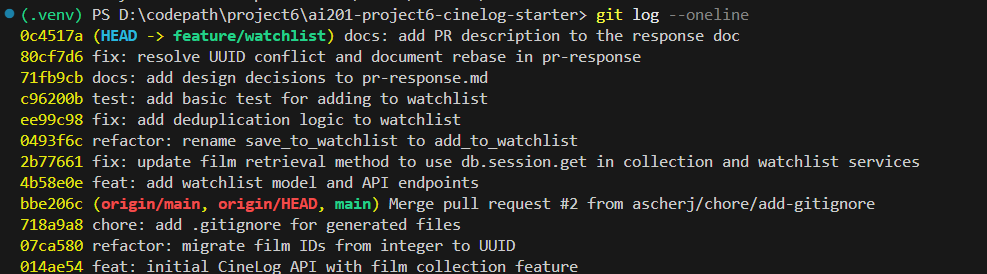
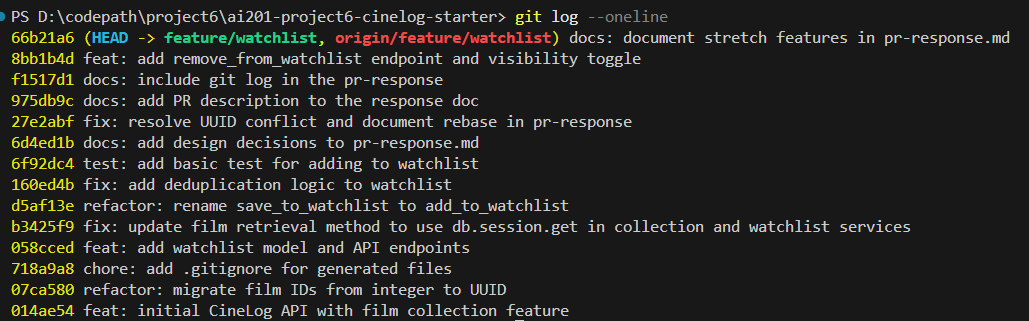
docs: git log screenshot in pr-response.md

Changed region(s): [[0.0, 0.0292, 1.0, 1.0]]

diff --git a/pr-response.md b/pr-response.md
@@ -58,16 +58,22 @@ I ran `pytest tests/` to verify that the application properly handles adding to 
 ## PR Description
 
 **Feature Overview:**
-This PR introduces the new Watchlist feature to CineLog. Users can now save films they want to watch later by adding them to their personal watchlist. The feature includes a new `WatchlistEntry` database model and API endpoints for adding to and retrieving the watchlist.
+This PR introduces the new Watchlist feature to CineLog. Users can now save films they want to watch later by adding them to their personal watchlist. The feature includes a new `WatchlistEntry` database model, an endpoint to retrieve the watchlist, a `POST` endpoint to add films (with an optional `public` visibility toggle), and a `DELETE` endpoint to remove films.
 
 **Design Decisions:**
 - **Default Visibility:** Watchlists are public by default to align with the social, sharing-oriented nature of the app. A visible UI badge is recommended to ensure users are aware of this.
 - **Sort Order:** Watchlists are sorted by 'date added' (newest first) to prioritize the films a user is most currently interested in, rather than alphabetical order.
 - **Deduplication:** Added logic to prevent users from adding the same film to their watchlist multiple times.
 
-**Manual Testing Steps:**
-1. Run the application locally with `flask run` or `python app.py`.
-2. Use an API testing tool (like Postman or curl) to send a `POST` request to `/watchlist/<user_id>/add` with a JSON body containing `{"film_id": "<uuid>"}`.
-3. Verify the response is `201 Created`.
-4. Try to send the exact same `POST` request again and verify it returns a `400 Bad Request` (or similar error) due to deduplication.
-5. Send a `GET` request to `/watchlist/<user_id>` and verify the added film appears in the response list, sorted correctly and displaying the `public: true` flag.
+**Testing Steps:**
+1. Ensure your virtual environment is active and dependencies are installed.
+2. Run the specific automated test suite for the watchlist feature:
+   ```bash
+   pytest tests/test_watchlist.py -v
+   ```
+3. Verify that all edge-case tests pass, including duplicate handling and attempting to remove a nonexistent film.
+4. To verify the entire application remains stable, run the full test suite:
+   ```bash
+   pytest tests/ -v
+   ```
+5. All 6 tests should return a `PASSED` status.
